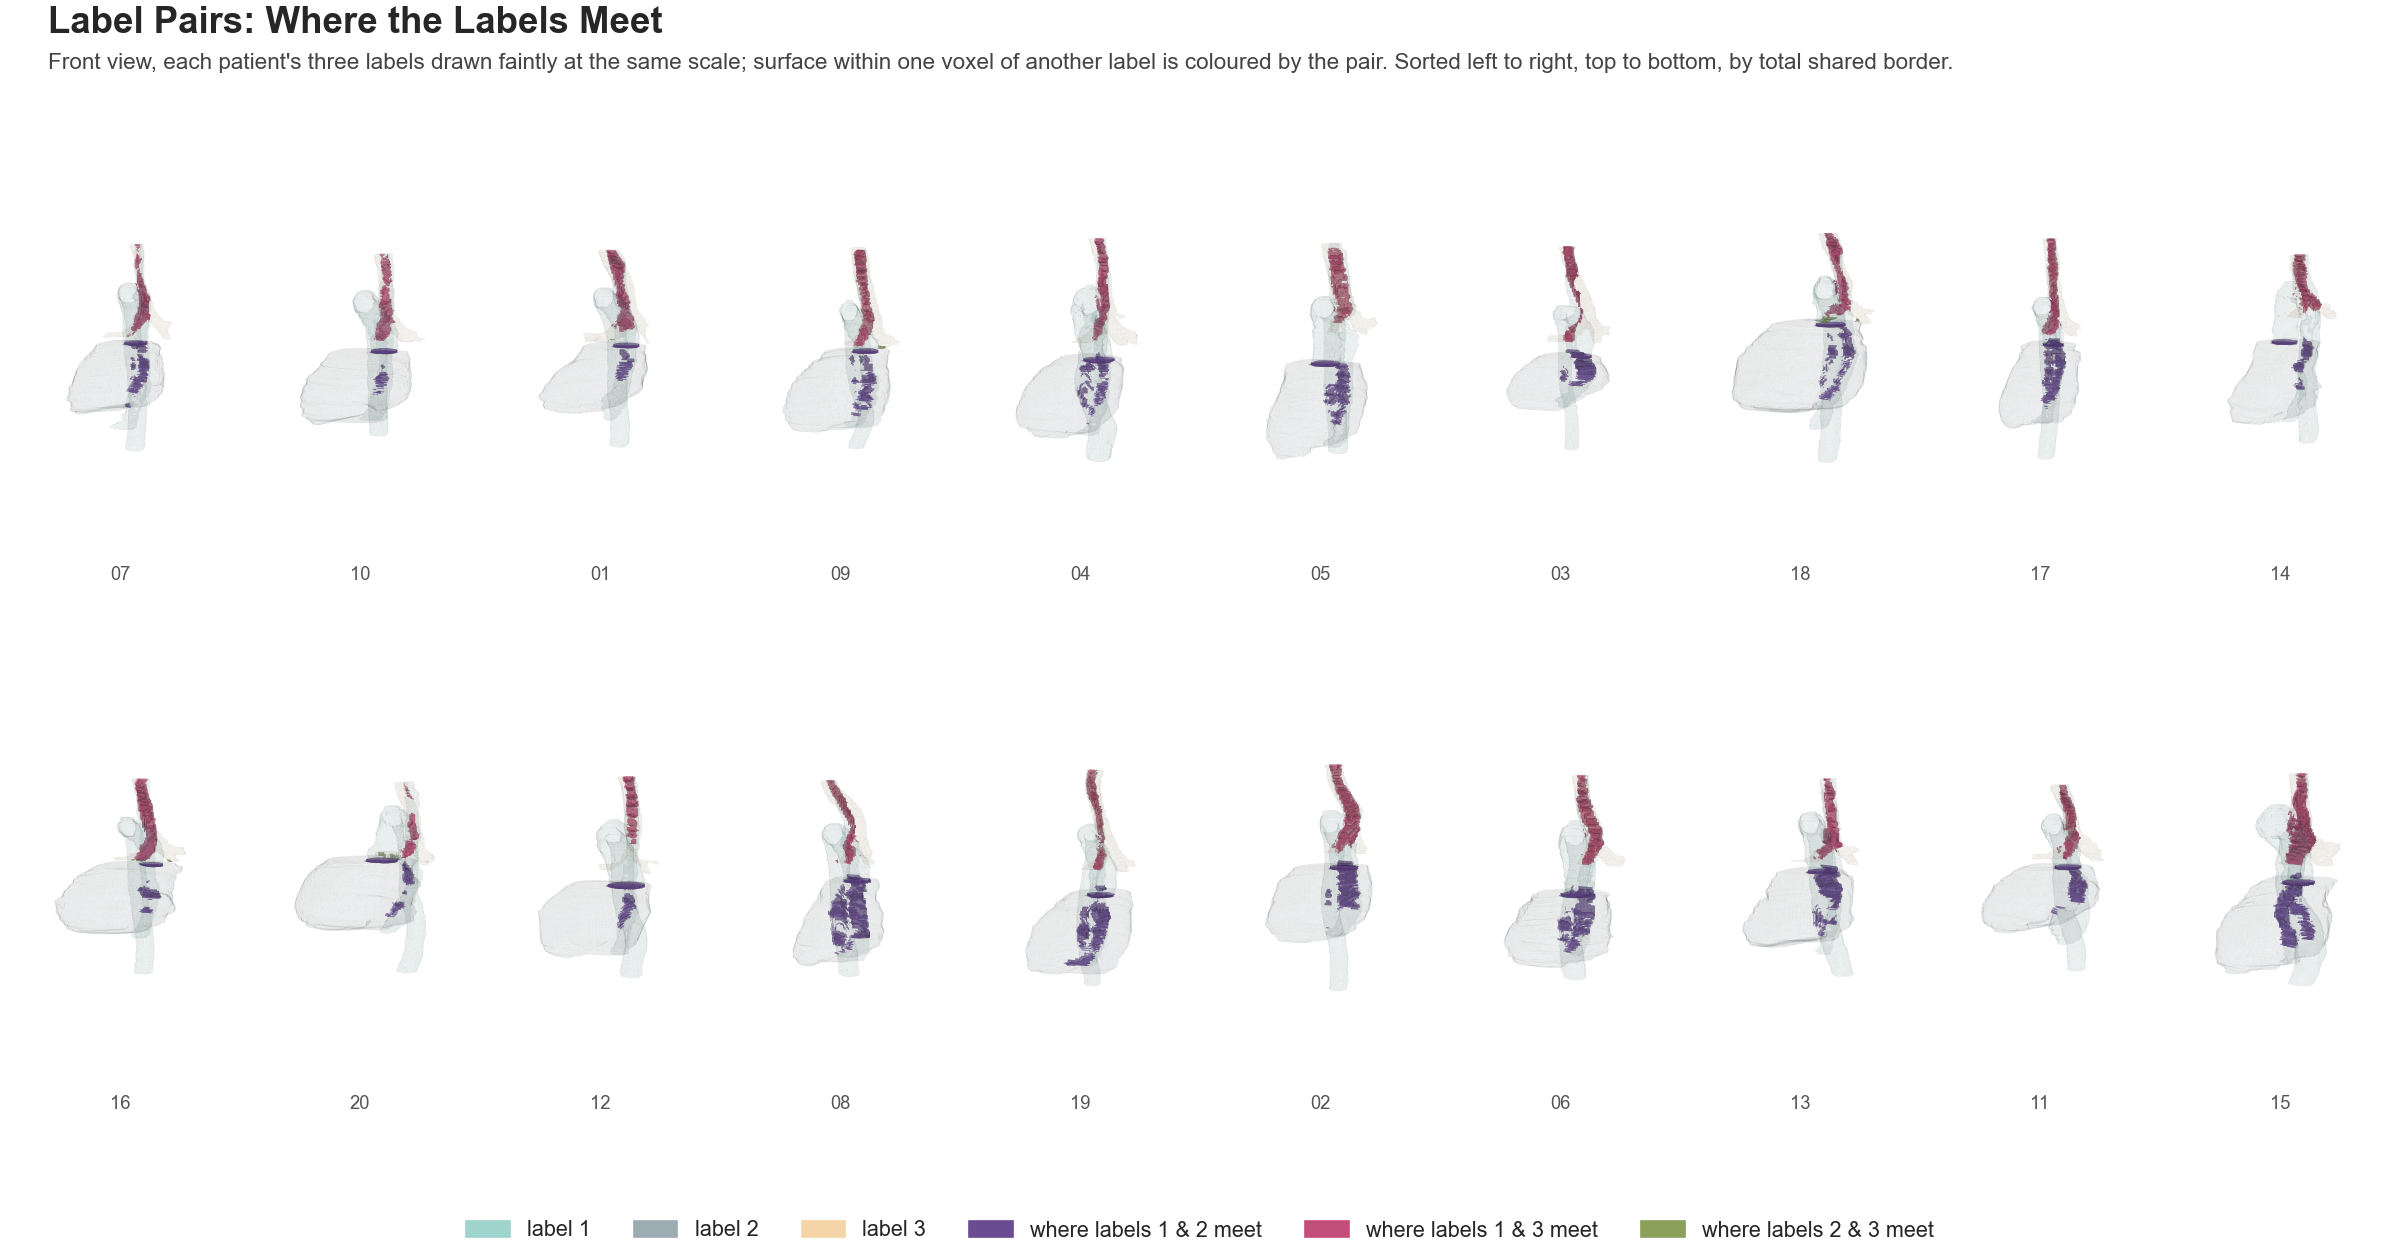
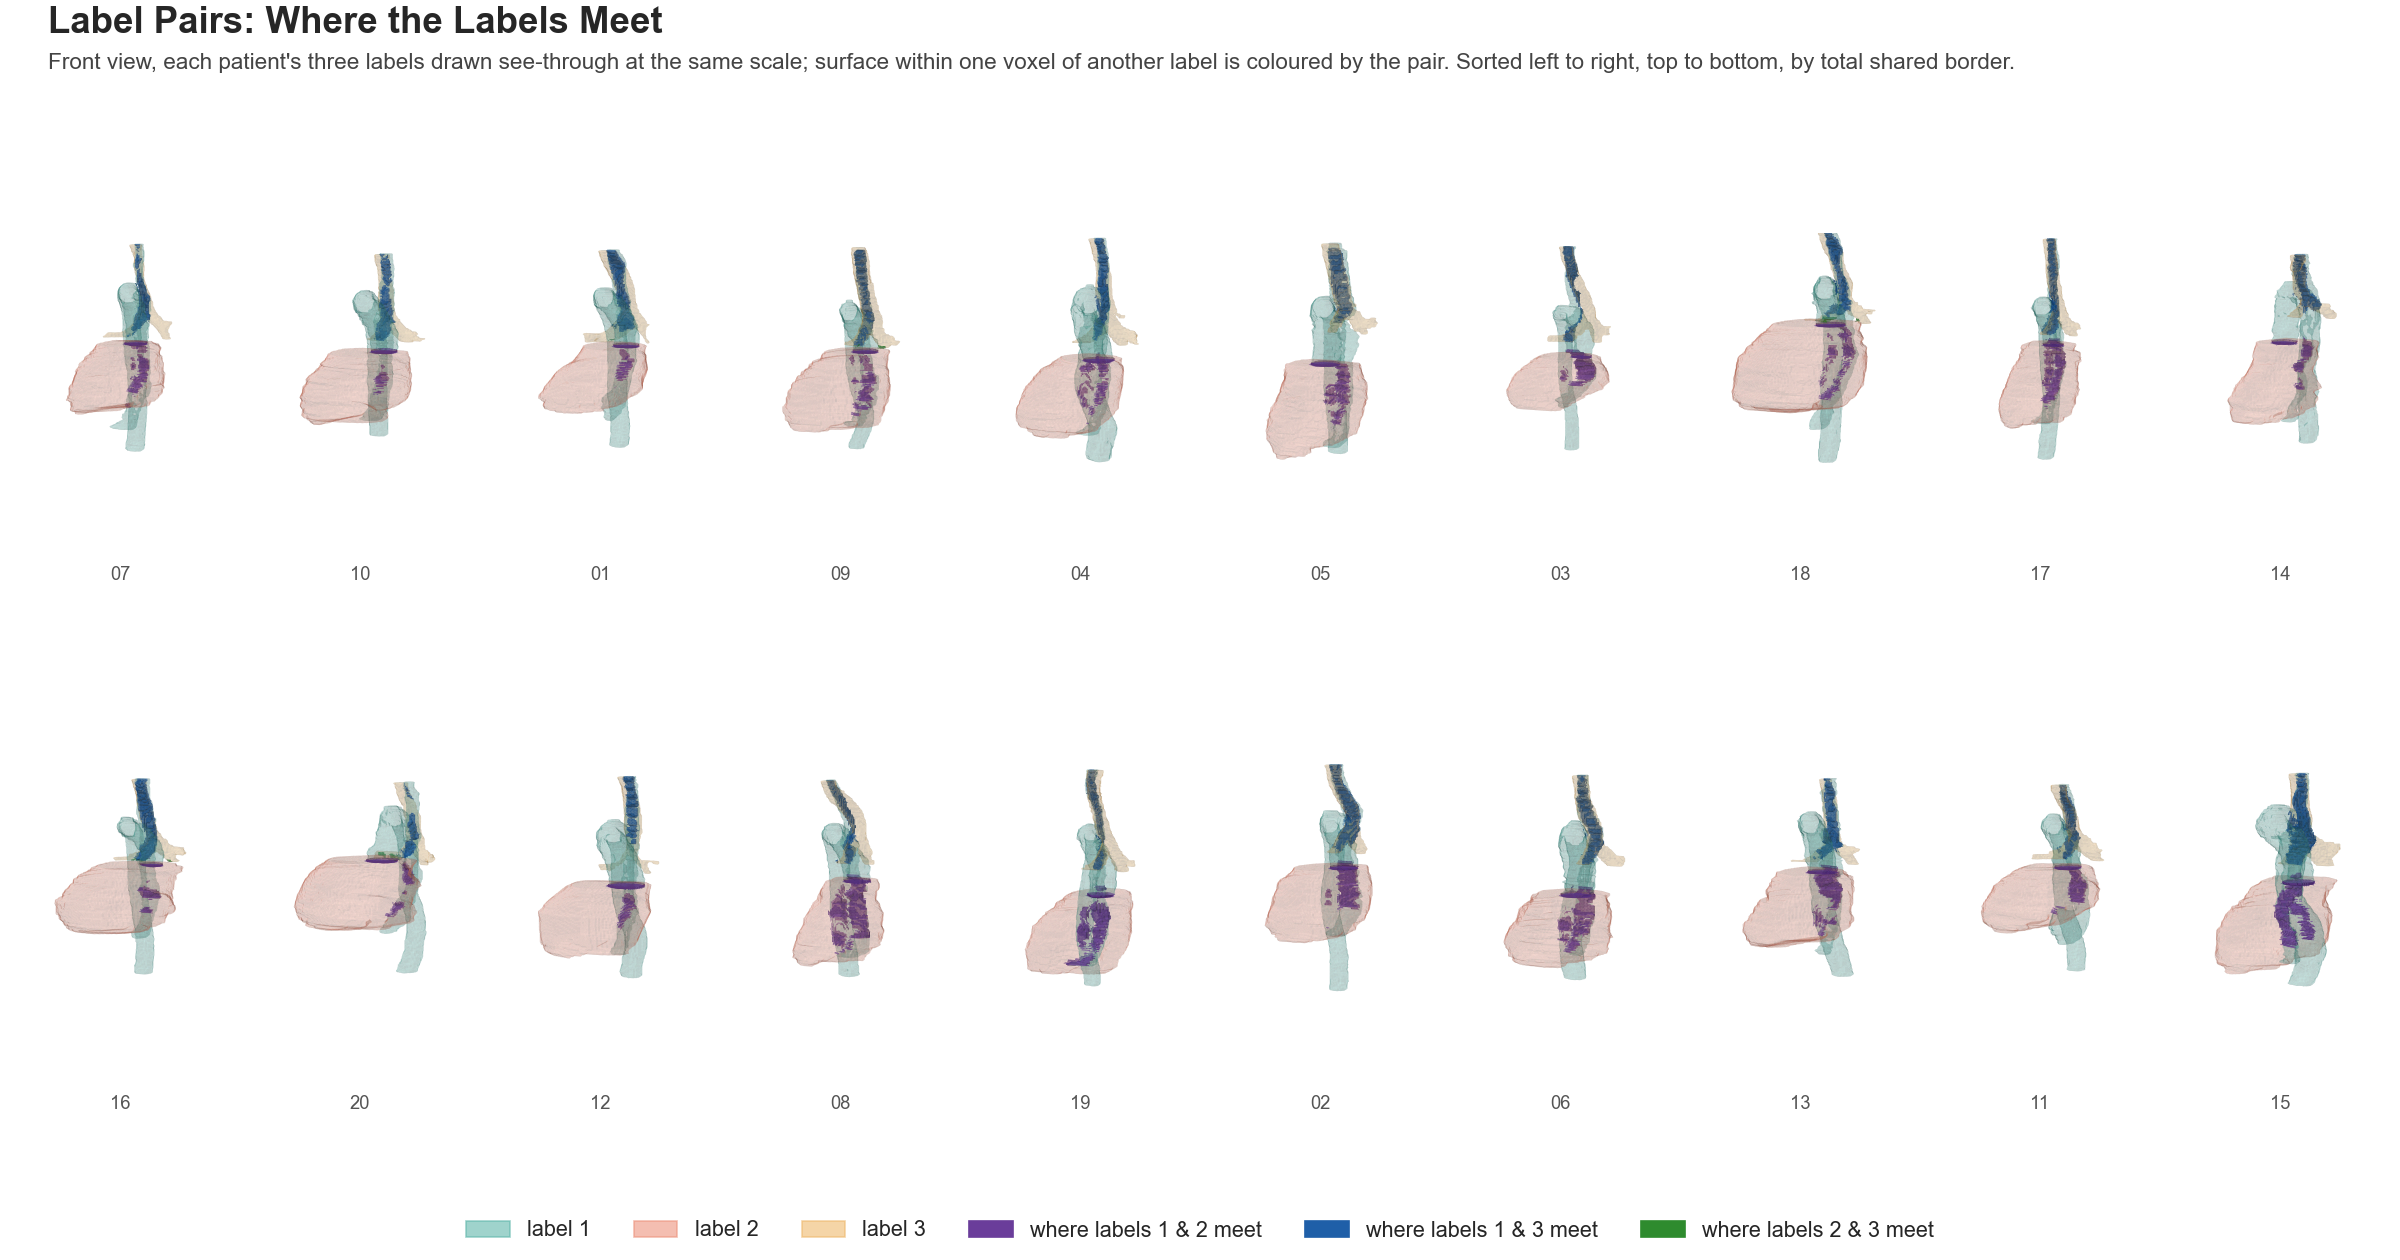
Show label colours in label pairs contact figure

diff --git a/tools/profile_figures/f13_label_pairs.py b/tools/profile_figures/f13_label_pairs.py
@@ -2,7 +2,7 @@
 """
 Label pairs: where labels 1, 2 and 3 meet, drawn in 3D for every patient.
 
-Each patient's three labels are drawn faintly at the same physical scale; the
+Each patient's three labels are drawn see-through at the same physical scale; the
 part of a label's surface that lies within one voxel of another label is
 painted in that pair's colour. Patients are sorted by total shared border area.
 
@@ -37,9 +37,10 @@ from profile_figures.common import LABEL_COLORS, build_arg_parser, header, out_s
 
 LABELS = list(LABEL_COLORS)
 PAIRS = [(1, 2), (1, 3), (2, 3)]
-PAIR_COLORS = {(1, 2): "#6A4C93", (1, 3): "#C44E7A", (2, 3): "#8AA05B"}
+PAIR_COLORS = {(1, 2): "#6A3D9A", (1, 3): "#1F5FA8", (2, 3): "#2E8B2E"}
 MESH_MM = 2.0
 HALF_WIDTH_MM, HALF_HEIGHT_MM = 90, 170  # shared 3D box for every patient
+LABEL_TINT, LABEL_ALPHA = 0.25, 0.2  # labels are drawn see-through so the contact patches stay visible
 LIGHT = np.array([-0.4, -0.6, 0.7]) / np.linalg.norm([-0.4, -0.6, 0.7])
 
 
@@ -71,7 +72,7 @@ def _draw_patient(ax, grids: dict[int, np.ndarray]) -> None:
         verts, faces, _, _ = marching_cubes(grid.astype(np.float32), 0.5, spacing=(MESH_MM,) * 3)
         tri = verts[faces]
         base = np.array(to_rgb(LABEL_COLORS[lab]))
-        rgba = np.tile(np.r_[base + (1 - base) * 0.55, 0.07], (len(faces), 1))
+        rgba = np.tile(np.r_[base + (1 - base) * LABEL_TINT, LABEL_ALPHA], (len(faces), 1))
         cell = np.clip((tri.mean(axis=1) / MESH_MM).astype(int), 0, np.array(grid.shape) - 1)
         for pair in PAIRS:
             if lab in pair:
@@ -115,14 +116,21 @@ def main():
         fig.text((col + 0.5) * col_w, top - row_h + 0.07, patient[-2:], ha="center", fontsize=11, color="#555555")
 
     handles = [
-        plt.Rectangle((0, 0), 1, 1, color=np.array(to_rgb(LABEL_COLORS[lab])) * 0.45 + 0.55, label=f"label {lab}")
+        plt.Rectangle(
+            (0, 0),
+            1,
+            1,
+            color=np.array(to_rgb(LABEL_COLORS[lab])) * (1 - LABEL_TINT) + LABEL_TINT,
+            alpha=LABEL_ALPHA * 3,
+            label=f"label {lab}",
+        )
         for lab in LABELS
     ] + [plt.Rectangle((0, 0), 1, 1, color=PAIR_COLORS[p], label=f"where labels {p[0]} & {p[1]} meet") for p in PAIRS]
     fig.legend(handles=handles, loc="lower center", ncol=6, frameon=False, fontsize=13)
     header(
         fig,
         "Label Pairs: Where the Labels Meet",
-        "Front view, each patient's three labels drawn faintly at the same scale; surface within one voxel of another "
+        "Front view, each patient's three labels drawn see-through at the same scale; surface within one voxel of another "
         "label is coloured by the pair. Sorted left to right, top to bottom, by total shared border.",
         0.945,
     )
